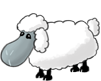
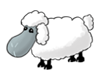
use lift images, shrunk the kids, added lambchop image

diff --git a/src/sheep.rb b/src/sheep.rb
@@ -33,11 +33,11 @@ class Sheep < Actor
         },
         dude: {
           normal: resource_manager.load_image('dude_sheep.png'),
-          picked_up: resource_manager.load_image('sheep_lift.png'),
+          picked_up: resource_manager.load_image('dude_sheep_lift.png'),
         },
         chick: {
           normal: resource_manager.load_image('chick_sheep.png'),
-          picked_up: resource_manager.load_image('sheep_lift.png'),
+          picked_up: resource_manager.load_image('chick_sheep_lift.png'),
         },
       }
     end
